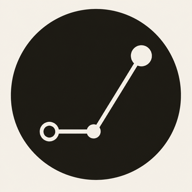
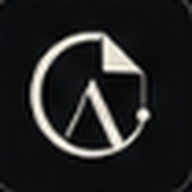
Refresh dual-theme brand identity assets

diff --git a/scripts/visual-theme-check.js b/scripts/visual-theme-check.js
@@ -11,6 +11,12 @@ const __dirname = path.dirname(__filename);
 const root = path.resolve(__dirname, "..");
 const outDir = path.join(root, "tmp", "theme-screenshots");
 const stylesHref = pathToFileURL(path.join(root, "templates", "default", "ui", "styles.css")).href;
+const brandMarkIvoryHref = pathToFileURL(
+  path.join(root, "templates", "default", "ui", "assets", "brand", "brand-mark-ivory.png"),
+).href;
+const brandMarkNocturneHref = pathToFileURL(
+  path.join(root, "templates", "default", "ui", "assets", "brand", "brand-mark-nocturne.png"),
+).href;
 const rmOptions = { recursive: true, force: true, maxRetries: 5, retryDelay: 150 };
 
 const themes = [
@@ -314,12 +320,9 @@ function baseHead(theme, title, bodyClass = "visual-fixture") {
 
 function railHtml() {
   return `<aside class="rail" aria-label="CoAutoResearch navigation">
-    <div class="brand">
-      <div class="brand-mark" aria-hidden="true"><svg class="brand-glyph" viewBox="0 0 32 32"><use href="#brand-mark-glyph"/></svg></div>
-      <div>
-        <div class="brand-title">CoAutoResearch</div>
-        <div class="brand-subtitle">Research agent</div>
-      </div>
+    <div class="brand brand-image" aria-label="CoAutoResearch">
+      <span class="brand-mark" aria-hidden="true"><img class="brand-mark-img brand-mark-img-ivory" src="${brandMarkIvoryHref}" alt="" /><img class="brand-mark-img brand-mark-img-nocturne" src="${brandMarkNocturneHref}" alt="" /></span>
+      <span class="brand-wordmark">CoAutoResearch</span>
     </div>
     <nav class="rail-nav" aria-label="Views">
       <div class="rail-section-label">Current project</div>
@@ -706,9 +709,9 @@ function shellHtml(theme, label) {
     </defs></svg>
     <div class="app-shell">
       <aside class="rail" aria-label="navigation">
-        <div class="brand">
-          <div class="brand-mark" aria-hidden="true"><svg class="brand-glyph" viewBox="0 0 32 32"><use href="#brand-mark-glyph"/></svg></div>
-          <div><div class="brand-title">CoAutoResearch</div><div class="brand-subtitle">Research agent</div></div>
+        <div class="brand brand-image" aria-label="CoAutoResearch">
+          <span class="brand-mark" aria-hidden="true"><img class="brand-mark-img brand-mark-img-ivory" src="${brandMarkIvoryHref}" alt="" /><img class="brand-mark-img brand-mark-img-nocturne" src="${brandMarkNocturneHref}" alt="" /></span>
+          <span class="brand-wordmark">CoAutoResearch</span>
         </div>
         <section class="project-switcher" aria-label="Projects">
           <div class="project-switcher-head"><div class="rail-section-label">Projects</div></div>

diff --git a/templates/default/ui/index.html b/templates/default/ui/index.html
@@ -28,7 +28,7 @@
     <link rel="icon" type="image/png" sizes="32x32" href="/assets/brand/favicon-32.png" />
     <link rel="icon" type="image/png" sizes="16x16" href="/assets/brand/favicon-16.png" />
     <link rel="apple-touch-icon" href="/assets/brand/apple-touch-icon.png" />
-    <link rel="stylesheet" href="/styles.css?v=20260626-stop-preexec" />
+    <link rel="stylesheet" href="/styles.css?v=20260702-brand-mark-sync" />
     <link rel="stylesheet" href="/sessions-panel.css?v=20260702-session-rail-hitfix" />
   </head>
   <body class="is-project-loading">
@@ -48,12 +48,12 @@
     </defs></svg>
     <div class="app-shell">
       <aside class="rail" aria-label="CoAutoResearch navigation">
-        <div class="brand">
-          <div class="brand-mark" aria-hidden="true"><svg class="brand-glyph" viewBox="0 0 32 32"><use href="#brand-mark-glyph"/></svg></div>
-          <div>
-            <div class="brand-title">CoAutoResearch</div>
-            <div class="brand-subtitle">Research agent</div>
-          </div>
+        <div class="brand brand-image" aria-label="CoAutoResearch">
+          <span class="brand-mark" aria-hidden="true">
+            <img class="brand-mark-img brand-mark-img-ivory" src="/assets/brand/brand-mark-ivory.png?v=20260702-mark-sync" alt="" />
+            <img class="brand-mark-img brand-mark-img-nocturne" src="/assets/brand/brand-mark-nocturne.png?v=20260702-mark-sync" alt="" />
+          </span>
+          <span class="brand-wordmark">CoAutoResearch</span>
         </div>
 
         <section class="project-switcher" aria-label="Projects">

diff --git a/templates/default/ui/styles.css b/templates/default/ui/styles.css
@@ -18698,3 +18698,43 @@ html[data-theme] .brief-editor-shell.is-framing-dock #cold-file-editor.is-compac
   line-height: 22px !important;
   overflow-y: hidden !important;
 }
+
+/* Sidebar brand uses theme-specific mark art plus live text, avoiding blurry PNG wordmarks. */
+html[data-theme] .brand.brand-image {
+  gap: 9px;
+  min-height: 42px;
+  padding: 2px 6px 12px;
+}
+
+html[data-theme] .brand.brand-image .brand-mark {
+  display: grid;
+  flex: 0 0 42px;
+  place-items: center;
+  width: 42px;
+  height: 42px;
+  border: 0;
+  background: transparent;
+}
+
+html[data-theme] .brand-mark-img {
+  grid-area: 1 / 1;
+  display: block;
+  width: 42px;
+  height: 42px;
+  object-fit: contain;
+}
+
+html[data-theme="atelier-ivory"] .brand-mark-img-nocturne,
+html[data-theme="atelier-nocturne"] .brand-mark-img-ivory {
+  display: none;
+}
+
+html[data-theme] .brand-wordmark {
+  color: var(--rail-ink);
+  font-family: var(--reader);
+  font-size: 17px;
+  font-weight: 560;
+  line-height: 1;
+  letter-spacing: 0;
+  white-space: nowrap;
+}

diff --git a/docs/brand.md b/docs/brand.md
@@ -1,0 +1,68 @@
+# Brand Identity
+
+CoAutoResearch uses a research-loop manuscript mark. It is meant to feel like a
+premium research workspace rather than a generic AI assistant.
+
+## Logo idea
+
+The mark combines three product ideas:
+
+- a research loop for iterative trials and review gates;
+- a manuscript page for the blueprint handoff;
+- a compact A-shaped spine for the autonomous research agent.
+
+The circular field keeps the mark usable as a favicon, app icon, package badge,
+and README symbol. The approved brand direction is intentionally narrow: Ivory
+and Nocturne surfaces, with the manuscript mark reproduced from the provided
+brand artwork instead of being reinterpreted into extra product palettes.
+
+## Logo construction
+
+![CoAutoResearch logo construction](../assets/logo-construction.png)
+
+The construction board documents the approved geometry, logo anatomy, clear
+space, and proportion rules. It belongs in brand documentation rather than the
+operational dashboard, where the mark should stay compact and functional.
+
+## Assets
+
+- `assets/logo.png` is the approved public repository lockup.
+- `assets/logo.svg` is the icon-only SVG fallback for documentation contexts.
+- `templates/default/ui/assets/brand/brand-mark-nocturne.png` is the Nocturne sidebar mark.
+- `templates/default/ui/assets/brand/brand-mark-ivory.png` is the Ivory sidebar mark.
+- The dashboard sidebar pairs those theme-specific marks with a live-text `CoAutoResearch` wordmark.
+- `templates/default/ui/assets/brand/sidebar-logo.png` is the Nocturne wordmark reference.
+- `templates/default/ui/assets/brand/favicon.svg` is the dashboard favicon.
+- `templates/default/ui/assets/brand/logo-light.png` is the PNG fallback for
+  the Ivory theme and other light surfaces.
+- `templates/default/ui/assets/brand/logo-dark.png` is the PNG fallback for
+  the Nocturne theme and other dark surfaces.
+- `templates/default/ui/index.html` uses the approved sidebar lockup in the
+  local dashboard shell.
+- `assets/hero.png` is the approved README and documentation brand board. It
+  shows the logo construction, app icon usage, color system, typography, and
+  product UI fragment in the premium dark visual direction.
+
+## Theme coverage
+
+The dashboard Settings panel exposes two first-class themes, and the PR ships
+matching icon assets for both:
+
+- **Ivory**: the white-paper workspace. Use the light-surface brand asset:
+  ivory field with the dark manuscript mark.
+- **Nocturne**: the black reading workspace. Use the dark-surface brand asset:
+  Nocturne field with the ivory manuscript mark.
+
+The sidebar lockup uses the approved artwork crop. Favicons and app icons remain
+containerized so browser chrome, shortcuts, and package previews do not depend
+on the active dashboard theme.
+
+## Usage notes
+
+- Prefer the SVG mark where possible.
+- Use `logo-light.png` on Ivory or white surfaces and `logo-dark.png` on
+  Nocturne or black surfaces.
+- Do not recolor the mark or introduce additional product palettes.
+- Do not add robot, brain, sparkle, or magic-wand symbols near the logo.
+- If a wordmark is needed, pair the mark with the plain text name
+  `CoAutoResearch` rather than baking text into the icon.

diff --git a/README.md b/README.md
@@ -1,8 +1,6 @@
 <div align="center">
 
-<img src="assets/logo.svg" width="88" alt="CoAutoResearch logo" />
-
-# CoAutoResearch
+<img src="assets/logo.png" width="333" alt="CoAutoResearch logo" />
 
 **A self-improving autonomous research partner you stay in control of.**
 
@@ -17,9 +15,9 @@ understand, steer, and defend the project at every step.
 
 </div>
 
-![The CoAutoResearch dashboard](assets/hero.png)
+![CoAutoResearch premium brand identity board](assets/hero.png)
 
-<div align="center"><sub>The dashboard ships in two themes — Ivory and Nocturne.</sub></div>
+<div align="center"><sub>Premium brand system with matching Ivory and Nocturne app treatments.</sub></div>
 
 Most "auto research" tools optimize for autonomous output: generate ideas, run
 experiments, write a paper, done. CoAutoResearch optimizes for **research
@@ -120,6 +118,7 @@ Generated projects keep the pieces that make research usable, separate and legib
 - [Getting started](docs/getting-started.md) — install, prerequisites, first project
 - [Concepts](docs/conceptual-framework.md) — how the research loop works
 - [Best practices](docs/best-practices.md) — how to start well, and turn the blueprint into a paper
+- [Brand identity](docs/brand.md) — logo meaning and usage notes
 - [CLI reference](docs/cli.md) — every command and flag
 - [Multiple projects](docs/multiple-projects.md) · [Remote servers](docs/remote-server.md) · [Platform support](docs/platforms.md) · [Upgrading projects](docs/upgrading.md)
 

diff --git a/docs/index.md b/docs/index.md
@@ -68,4 +68,5 @@ upgrading
 :maxdepth: 2
 
 conceptual-framework
+brand
 ```
